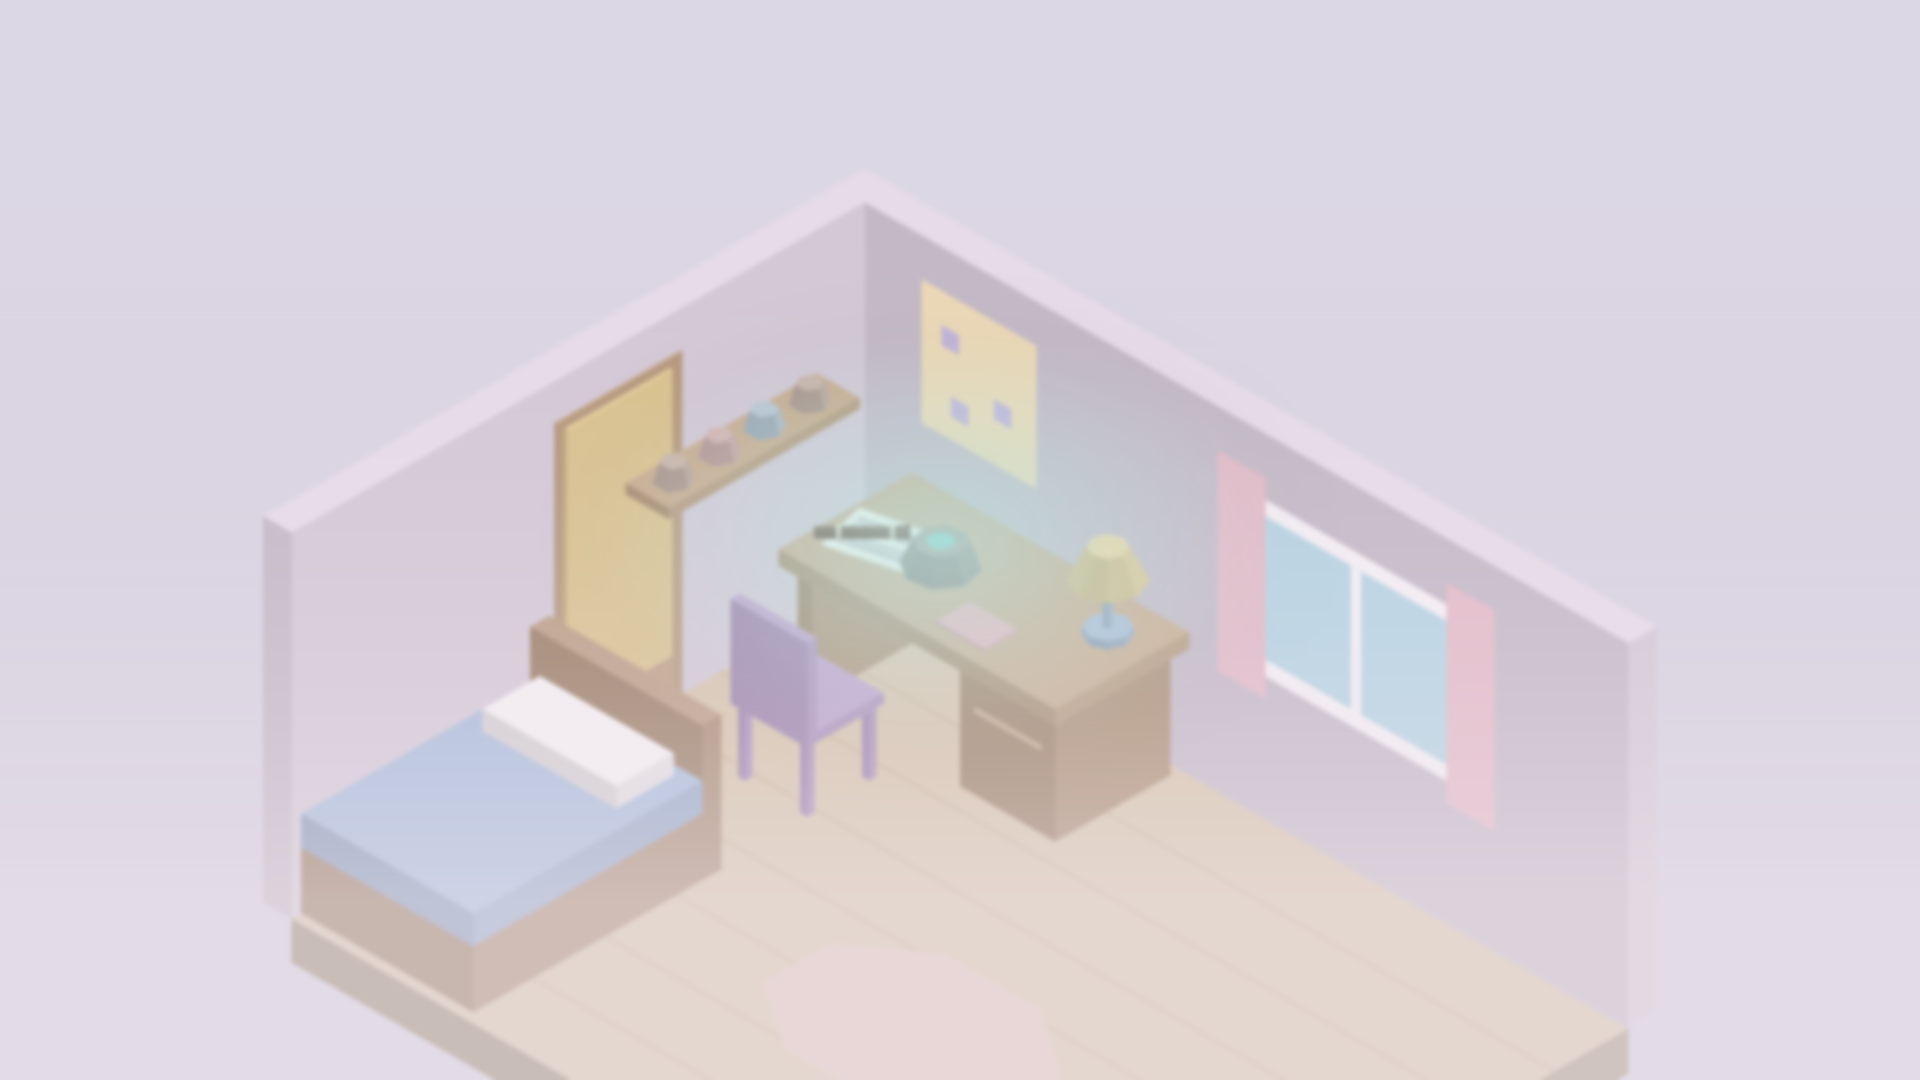
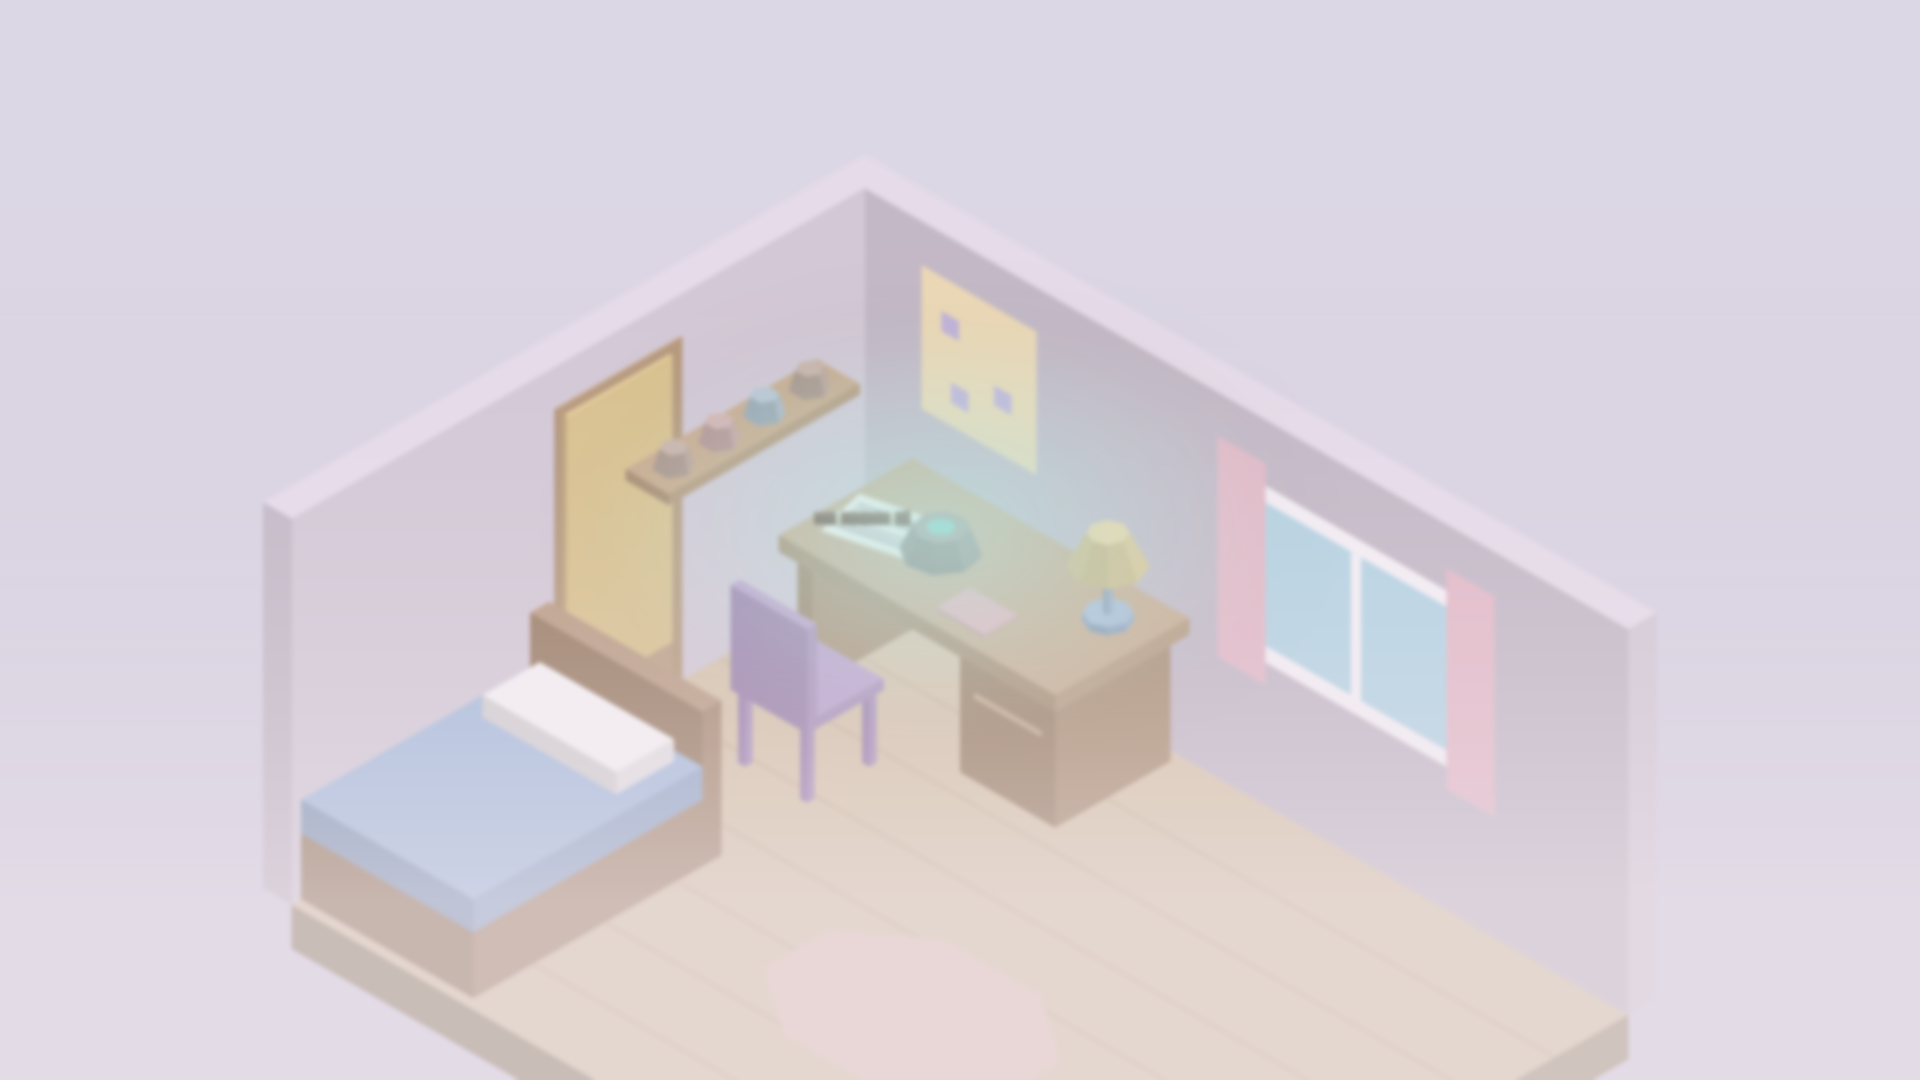
Draw the recorder room's glow frames 7 rows higher, as the room is
Needle's boarding glow now matches story-ada-room-recorder: the same lift and its subject band,
248..293.

diff --git a/art/tools/storybook.ts b/art/tools/storybook.ts
@@ -1768,8 +1768,8 @@ export const BACKGROUNDS: readonly Background[] = [
   ...GLOW.map((glow, i) => ({
     id: `story-ada-room-recorder-glow-${i + 1}`,
     palette: ROOM,
-    build: (P: Palette) => room(P, { glow: glowAmount(glow), recorder: true }),
-    subject: band(255, 300),
+    build: (P: Palette) => room(P, { glow: glowAmount(glow), lift: NEEDLE_LIFT, recorder: true }),
+    subject: band(248, 293),
   })),
   // Needle's closing: the stage, and Ada playing in the spotlight.
   {

diff --git a/art/storybook.md b/art/storybook.md
@@ -390,8 +390,9 @@ page's.
 Needle boards from the recorder room, so key `rockGlowRecorderSeated` is the
 same glow from `story-ada-room-recorder` through `story-ada-room-recorder-glow-1`
 to `-3` into `cockpit-seated`, with the same timing and reduced motion. Its
-frames are the recorder room with the same glow amounts, the recorder in place
-on its song sheet, and carry the room's subject band (255..300).
+frames are the recorder room with the same glow amounts, drawn 7 rows higher as
+the room is, the recorder in place on its song sheet, and carry the room's
+subject band (248..293).
 
 The glow frames are `story-ada-room` with the rock's glow grown to a third, two
 thirds and all of the room: 32 nested ellipses (height 0.6 of width) in
